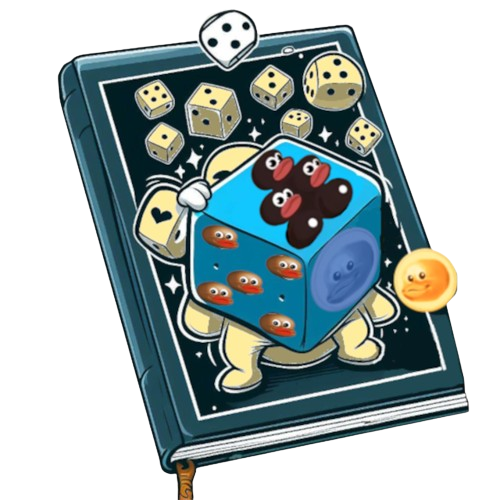
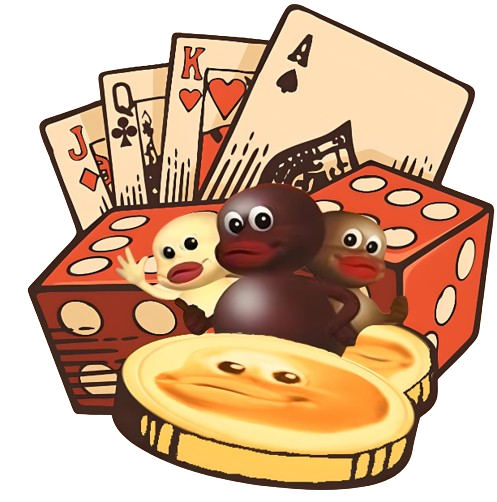
Arreglo ventana seleccion juegos, add poker, remove dadosPoker

diff --git a/flaskProject/static/css/pantallaJuegos.css b/flaskProject/static/css/pantallaJuegos.css
@@ -23,6 +23,7 @@ h1 {
     overflow: hidden;
     position: relative;
     width: 100%;
+    height: 100%;
 }
 
 h1 span {
@@ -120,6 +121,7 @@ h1 span {
 
 #mostrar{
     left: 50%;
+    height: 10%;
 }
 
 :root{
@@ -149,7 +151,7 @@ img{
 
 .slider_container{
     position: relative;
-    top: -100%;
+    top: -99%;
     right: 00%;
     height: 50%;
     width: 21%;
@@ -162,7 +164,7 @@ img{
 .slider_container2{
     position: relative;
     left: 10%;
-    top: 0;
+    top: 1%;
     height: 50%;
     width: 21%;
     border: 4px solid rgb(0, 255, 0);
@@ -172,7 +174,7 @@ img{
 .slider_container3{
     position: relative;
     right: -68%;
-    top: -50%;
+    top: -49%;
     height: 50%;
     width: 21%;
     border: 4px solid rgb(0, 0, 255);

diff --git a/flaskProject/templates/dice_index.html b/flaskProject/templates/dice_index.html
@@ -12,10 +12,6 @@
             <h1>Juegos de dados</h1>
         </div>
         <div class = "contenedorJuegos">
-            <article id="cargarPokerDados">
-                <img id="cartelJuego" src="/static/images/juegos_dados/pokerDadosCartel.png">
-                <img src="/static/images/juegos_dados/pokerDadosFrontal.png">
-            </article>
             <article id="cargarCraps">
                 <img id="cartelJuego" src="/static/images/juegos_dados/dadosCrapsCartel.png">
                 <img src="/static/images/juegos_dados/dadosCrapsFrontal.png">

diff --git a/flaskProject/templates/juegosCartas.html b/flaskProject/templates/juegosCartas.html
@@ -28,6 +28,10 @@
                 <img src="/static/images/juegos_cartas/cartaDeEleccionCartel.png">
                 <img src="/static/images/juegos_cartas/cartaDeEleccionFrontal.png">
             </article>
+            <article id="cargarPoker">
+                <img src="/static/images/juegos_cartas/pokerCartel.png">
+                <img src="/static/images/juegos_cartas/pokerFrontal.png">
+            </article>
         </div>
     </div>
 {% endblock %}

diff --git a/flaskProject/static/js/JuegosCartas.js b/flaskProject/static/js/JuegosCartas.js
@@ -9,3 +9,7 @@ document.getElementById("cargarBlackJack").addEventListener("click", function(){
 document.getElementById("cargarCartaEleccion").addEventListener("click", function(){
     window.location.href = "/Juegos/Indice_cartas/Cartas_de_eleccion/";
 });
+
+document.getElementById("cargarPoker").addEventListener("click", function(){
+    window.location.href = "/Juegos/Indice_cartas/Cartas_de_eleccion/";
+});

diff --git a/flaskProject/static/js/juegosDados.js b/flaskProject/static/js/juegosDados.js
@@ -1,7 +1,3 @@
-document.getElementById("cargarPokerDados").addEventListener("click", function(){
-    window.location.href = "/Juegos/Indice_Dados/Poker/";
-});
-
 document.getElementById("cargarCraps").addEventListener("click", function(){
     window.location.href = "/Juegos/Indice_Dados/Craps/";
 });

diff --git a/flaskProject/static/css/eventos.css b/flaskProject/static/css/eventos.css
@@ -8,6 +8,7 @@ body{
   background-size: cover;
   background-position: center 100%;
   z-index: 1;
+  overflow: hidden;
 }
 
 audio{
